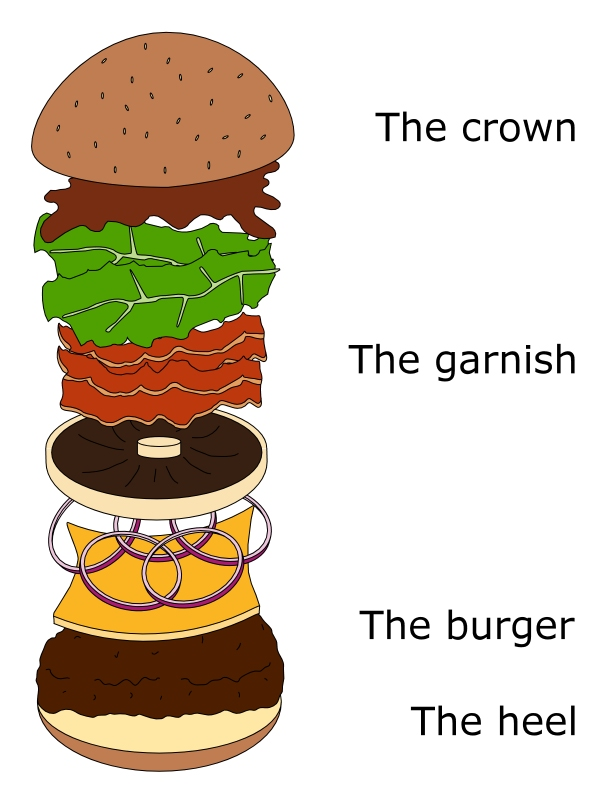
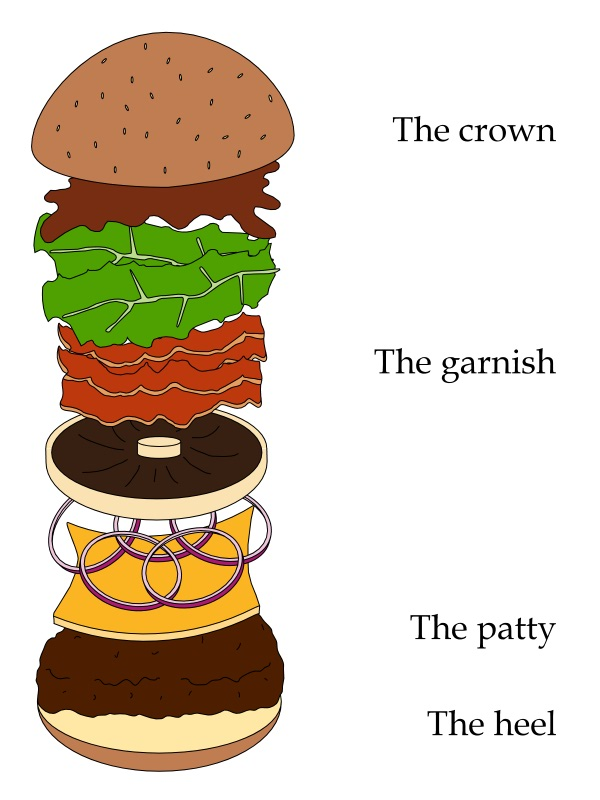
Tag dividers corrected

diff --git a/the-soundtrack.html b/the-soundtrack.html
@@ -43,7 +43,7 @@
                 <h4>It all starts with a sound...</h4>
                 <p>A la Quentin Tarantino when conjuring ideas for films, we use music as an inspiration for our 
                     food. And we listen to <em>anything</em>. From classic American rock inspiring us to make that 
-                    cornerstone of American cuisine, to far eastern pop motivating us to make a Korean infused 
+                    cornerstone of North American cuisine, to far eastern pop motivating us to make a Korean infused 
                     sandwich. No kitchen or cooking activity is complete without accompanying music. So listen up, 
                     let the music take you to faraway places, and keep those smell receptors open, and with a 
                     pinch of imagination you will be able to taste the ingredients as you listen.
@@ -53,7 +53,7 @@
 
             <article id="soundtrack-article">
 
-                <h4><i class="fa fa-music"></i> Journey - Don't Stop Believin' / 
+                <h4><i class="fa fa-music"></i> Journey - Don't Stop Believin' // 
                     <a href="articles/this-is-a-tasty-burger">This is a tasty burger</a></h4>
                 <iframe src="https://embed.spotify.com/?uri=spotify:track:4bHsxqR3GMrXTxEPLuK5ue" width="300" 
                     height="80" frameborder="0" allowtransparency="true">
@@ -66,7 +66,7 @@
                 </p>
 
 
-                <h4><i class="fa fa-music"></i> The Cambodian Space Project - Pros Kangaroo / 
+                <h4><i class="fa fa-music"></i> The Cambodian Space Project - Pros Kangaroo // 
                     <a href="articles/bulgogi-beef-sandwich">Bulgogi Beef Sandwich</a></h4>
                 <iframe src="https://embed.spotify.com/?uri=spotify:track:4dDyJbn6cN6E1waiWpkpD0" width="300" 
                     height="80" frameborder="0" allowtransparency="true">
